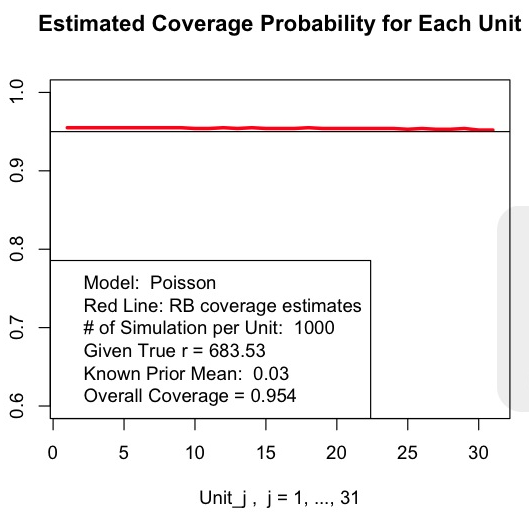
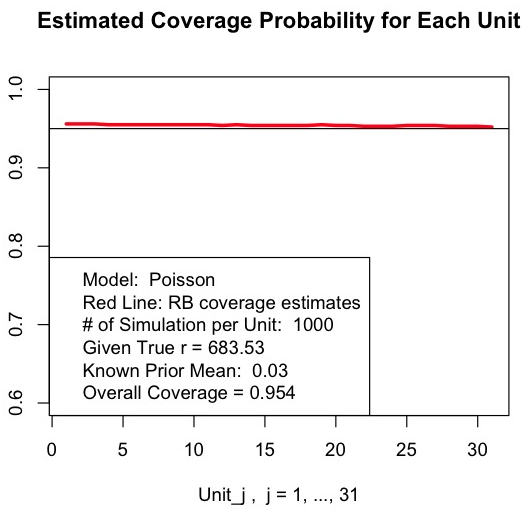
Tak edit on 3 Sep

diff --git a/jss/article.tex b/jss/article.tex
@@ -447,9 +447,9 @@ The following code provides 31 RB unbiased coverage estimates for each hospital.
 R> pcv$coverageRB
 \end{CodeInput}
 \begin{CodeOutput}
- [1] 0.955 0.955 0.955 0.955 0.955 0.955 0.955 0.955 0.955 0.954 0.954 0.955 
-[13] 0.954 0.955 0.954 0.954 0.954 0.955 0.954 0.954 0.954 0.954 0.954 0.954 
-[25] 0.953 0.954 0.953 0.953 0.954 0.952 0.952
+ [1] 0.956 0.956 0.956 0.955 0.955 0.955 0.955 0.955 0.955 0.955 0.955 0.954 
+[13] 0.955 0.954 0.954 0.954 0.954 0.954 0.955 0.954 0.954 0.953 0.953 0.953
+[25] 0.954 0.954 0.954 0.953 0.953 0.953 0.952
 \end{CodeOutput}
 \end{CodeChunk}
 
@@ -459,9 +459,9 @@ And the code below calculates 31 simple unbiased coverage estimates for each hos
 R> pcv$coverageS
 \end{CodeInput}
 \begin{CodeOutput}
- [1] 0.960 0.953 0.956 0.952 0.957 0.957 0.960 0.949 0.949 0.944 0.951 0.947 
-[13] 0.949 0.958 0.958 0.959 0.953 0.954 0.953 0.955 0.956 0.952 0.953 0.959 
-[25] 0.945 0.945 0.953 0.946 0.953 0.948 0.955
+ [1] 0.947 0.952 0.963 0.961 0.957 0.957 0.959 0.952 0.957 0.957 0.941 0.958 
+[13] 0.954 0.962 0.935 0.940 0.955 0.952 0.951 0.941 0.955 0.952 0.954 0.946 
+[25] 0.942 0.952 0.958 0.945 0.938 0.958 0.948
 \end{CodeOutput}
 \end{CodeChunk}
 
@@ -471,9 +471,9 @@ The function \code{coverage} also calculates the standard errors for each hospit
 R> pcv$se.coverageRB
 \end{CodeInput}
 \begin{CodeOutput}
- [1] 0.0016 0.0016 0.0014 0.0013 0.0013 0.0013 0.0013 0.0013 0.0013 0.0013 0.0012 
-[12] 0.0012 0.0012 0.0011 0.0011 0.0011 0.0011 0.0011 0.0011 0.0011 0.0011 0.0010
-[23] 0.0010 0.0010 0.0010 0.0009 0.0009 0.0008 0.0008 0.0007 0.0007
+ [1] 0.0017 0.0017 0.0014 0.0014 0.0014 0.0014 0.0014 0.0014 0.0013 0.0013 0.0013 
+[12] 0.0013 0.0012 0.0012 0.0012 0.0012 0.0011 0.0012 0.0011 0.0011 0.0011 0.0011
+[23] 0.0010 0.0011 0.0010 0.0010 0.0009 0.0009 0.0009 0.0007 0.0007
 \end{CodeOutput}
 \end{CodeChunk}
 Similarly, 31 standard errors for each simple unbiased coverage estimate are
@@ -482,13 +482,13 @@ Similarly, 31 standard errors for each simple unbiased coverage estimate are
 R> pcv$se.coverageS
 \end{CodeInput}
 \begin{CodeOutput}
- [1] 0.0062 0.0067 0.0065 0.0068 0.0064 0.0064 0.0062 0.0070 0.0070 0.0073 0.0068 
-[12] 0.0071 0.0070 0.0063 0.0063 0.0063 0.0067 0.0066 0.0067 0.0066 0.0065 0.0068
-[23] 0.0067 0.0063 0.0072 0.0072 0.0067 0.0072 0.0067 0.0070 0.0066
+ [1] 0.0071 0.0068 0.0060 0.0061 0.0064 0.0064 0.0063 0.0068 0.0064 0.0064 0.0075 
+[12] 0.0063 0.0066 0.0060 0.0078 0.0075 0.0066 0.0068 0.0068 0.0075 0.0066 0.0068 
+[23] 0.0066 0.0072 0.0074 0.0068 0.0063 0.0072 0.0076 0.0063 0.0070
 \end{CodeOutput}
 \end{CodeChunk}
 
-Taking the first hospital as an example, the variance estimate of RB unbiased coverage estimate is about 15 times smaller than that of simple one. It means that 1,000 RB unbiased coverage estimates are as precise as 15,000 simple unbiased coverage estimates in terms of estimating true coverage probability for the first hospital.
+Taking the first hospital as an example, the variance estimate of RB unbiased coverage estimate is about 17 times smaller than that of simple one. It means that 1,000 RB unbiased coverage estimates are as precise as 17,000 simple unbiased coverage estimates in terms of estimating true coverage probability for the first hospital.
 
 For reference, two $31 \times 1,000$ matrices \code{raw.resultRB} and \code{raw.resultS}, each row of which is about each hospital, in \code{pcv} contain all the individual estimates.
 % For reference, it took 10 seconds for MacBook Pro with a 2.3 GHz dual-core Intel i5 CPU to run 10,000 simulations.
@@ -640,7 +640,7 @@ In addition, Rao-Blackwellized (RB) unbiased coverage estimate and its standard 
 R> gcv$coverageRB
 \end{CodeInput}
 \begin{CodeOutput}
- [1] 0.964 0.958 0.964 0.960 0.956 0.959 0.958 0.966
+ [1] 0.966 0.959 0.967 0.960 0.959 0.962 0.960 0.966
 \end{CodeOutput}
 \end{CodeChunk}
 \begin{CodeChunk}
@@ -648,7 +648,7 @@ R> gcv$coverageRB
 R> gcv$se.coverageRB
 \end{CodeInput}
 \begin{CodeOutput}
- [1] 0.0014 0.0013 0.0016 0.0014 0.0014 0.0012 0.0012 0.0017
+ [1] 0.0013 0.0012 0.0013 0.0013 0.0011 0.0011 0.0010 0.0017
 \end{CodeOutput}
 \end{CodeChunk}
 
@@ -823,8 +823,8 @@ R> bcv$coverageRB
 \end{CodeInput}
 %$
 \begin{CodeOutput}
- [1] 0.973 0.973 0.974 0.971 0.971 0.973 0.972 0.973 0.972 0.973 0.971 0.973 
-[13] 0.971 0.972 0.974 0.972 0.972 0.973
+ [1] 0.972 0.973 0.973 0.973 0.972 0.972 0.972 0.972 0.973 0.972 0.973 0.972 
+[13] 0.973 0.973 0.971 0.973 0.971 0.973
 \end{CodeOutput}
 \end{CodeChunk}
 \begin{CodeChunk}
@@ -832,8 +832,8 @@ R> bcv$coverageRB
 R> bcv$se.coverageRB
 \end{CodeInput}
 \begin{CodeOutput}
- [1] 0.0010 0.0011 0.0011 0.0013 0.0012 0.0011 0.0012 0.0011 0.0012 0.0010 
-[11] 0.0013 0.0012 0.0013 0.0013 0.0010 0.0010 0.0010 0.0010
+ [1] 0.0015 0.0011 0.0012 0.0011 0.0015 0.0012 0.0012 0.0010 0.0011 0.0012 
+[11] 0.0010 0.0012 0.0010 0.0011 0.0013 0.0011 0.0013 0.0010
 \end{CodeOutput}
 \end{CodeChunk}
 
